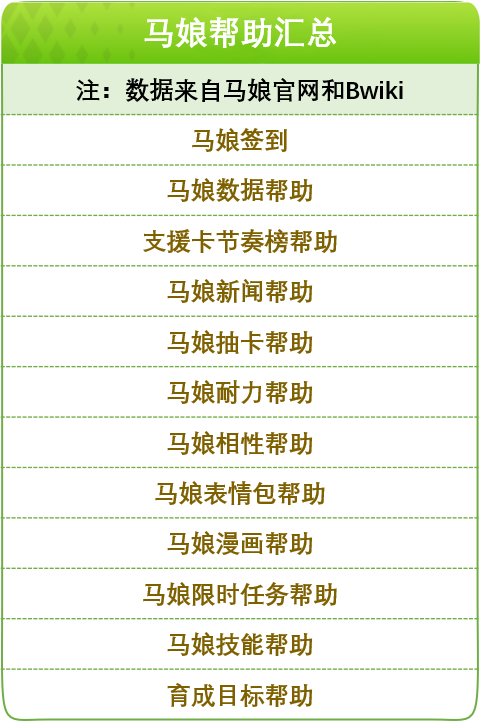
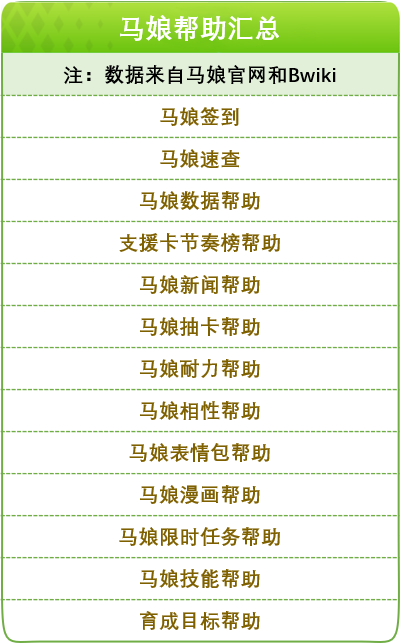
v2.5.0  新增一个小功能'马娘速查'，方便萌新

Changed region(s): [[0.0, 0.0, 1.0, 1.0], [0.7481, 0.4658, 0.8678, 0.4969], [0.7481, 0.4037, 0.8678, 0.4348]]

diff --git a/__init__.py b/__init__.py
@@ -1,6 +1,7 @@
 import os
 import shutil
 import asyncio
+import json
 
 from hoshino import Service, R, logger
 
@@ -13,13 +14,24 @@ from .uma_tasks.update_init import update as tasks_update, auto_update as tasks_
 from .uma_gacha.update_init import update as gacha_update, auto_update as gacha_auto
 from .uma_support_chart.update_init import update as sup_update
 
-sv = Service('uma_help', help_='![](https://img.gejiba.com/images/6f9a66ec3de739417cd3ba9003162fcc.png)')
+sv = Service('uma_help', help_='![](https://img.gejiba.com/images/1d987330ad0a9e041321cdf433e5c7c4.png)')
 
 @sv.on_fullmatch('马娘帮助')
 async def get_help(bot, ev):
     img_path = os.path.join(os.path.dirname(__file__), f'{sv.name}.png')
     sv_help = f'[CQ:image,file=file:///{os.path.abspath(img_path)}]'
     await bot.send(ev, sv_help)
+
+# 马娘速查，一些支援卡对比的子网站就不列举了，去百科里找就行了
+@sv.on_fullmatch('马娘速查')
+async def uma_query(bot, ev):
+    query_path = os.path.join(os.path.dirname(__file__), 'query_data.json')
+    with open(query_path, 'w', encoding='UTF-8') as f:
+        query_data = json.load(f)
+    msg = '◎赛马娘常用网站◎'
+    for title in list(query_data.keys()):
+        msg += '\n' + title + '：' + query_data[title]
+    await bot.send(ev, msg)
 
 # v1.5.2将图片文件夹合并至一个文件夹
 root_path = R.img('umamusume').path

diff --git a/README.md b/README.md
@@ -55,18 +55,20 @@ https://github.com/azmiao/uma_plugin/
 
 ## 最近的更新日志
 
+22-07-17    v2.5.0  新增一个小功能“马娘速查”，方便萌新
+
 22-07-16    v2.4.0  美化帮助界面，同时方便autohelp服务模式显示，详情本文末尾
 
 22-07-16    v2.3.1  修复技能查询BUG同时新增繁中技能查询 by[@Yui-xy](https://github.com/Yui-xy)，[issue #28](https://github.com/azmiao/uma_plugin/issues/28)
 
 22-07-08    v2.3.0  新增查询赛程的育成目标功能，使用命令 “查目标 角色名” 即可，结果图片仿自bwiki，[issue #25](https://github.com/azmiao/uma_plugin/issues/25)
 
-22-07-06    v2.2.2  修复台服支援卡命名方式变化后的BUG，更新后请务必手动删除uma_support_chart文件夹下的`sup_config_tw.json`再重启hoshino
-
 </details>
 
 <details>
 <summary>更以前的更新日志</summary>
+
+22-07-06    v2.2.2  修复台服支援卡命名方式变化后的BUG，更新后请务必手动删除uma_support_chart文件夹下的`sup_config_tw.json`再重启hoshino
 
 22-07-05    v2.2.1  修复支援卡节奏榜网页更新后的BUG，更新后请务必手动删除uma_support_chart文件夹下的`sup_config.json`再重启hoshino，[issue #24](https://github.com/azmiao/uma_plugin/issues/24)
 
@@ -127,6 +129,7 @@ https://github.com/azmiao/uma_plugin/
 ```
 git pull
 ```
+git pull不成功的请自行百度解决，一般是有文件冲突导致的，删了那个文件再git pull就好了
 
 > 若是从 v1.2 版本之前(不包括 v1.2)的版本更新到最新版，建议直接把 `uma_plugin` 文件夹删了，再按照本页面最底下的安装教程重新安装一遍。并且建议删除前，把文件 `/uma_info/config.json` 备份出来，这样重新安装完就不用再手动更新马娘数据了。否则重装后需要重新使用群命令："手动更新马娘数据" 更新基础数据
 
@@ -134,8 +137,10 @@ git pull
 
 ## 功能命令和描述
 
+### 维护组的命令
+
 <details>
-<summary><font size = 4>点我展开维护组的所有命令</font></summary>
+<summary><font size = 4>点我展开</font></summary>
 
 马娘数据库的：
 
@@ -167,13 +172,17 @@ git pull
 
  - 手动更新马娘技能
 
+马娘新闻的：
+
+ - 马娘新闻翻译转发模式on/off
+
 </details>
 
 ### 注：发送“马娘帮助”可以查看马娘插件所有的帮助汇总
 
-![](https://img.gejiba.com/images/6f9a66ec3de739417cd3ba9003162fcc.png)
+### 没有图片版的【马娘黄历】只有一个命令：马娘签到
 
-没有图片版的【马娘黄历】只有一个命令：马娘签到
+![](https://img.gejiba.com/images/1d987330ad0a9e041321cdf433e5c7c4.png)
 
 <details>
 <summary><font size = 4>其他功能的图片版帮助</font></summary>
